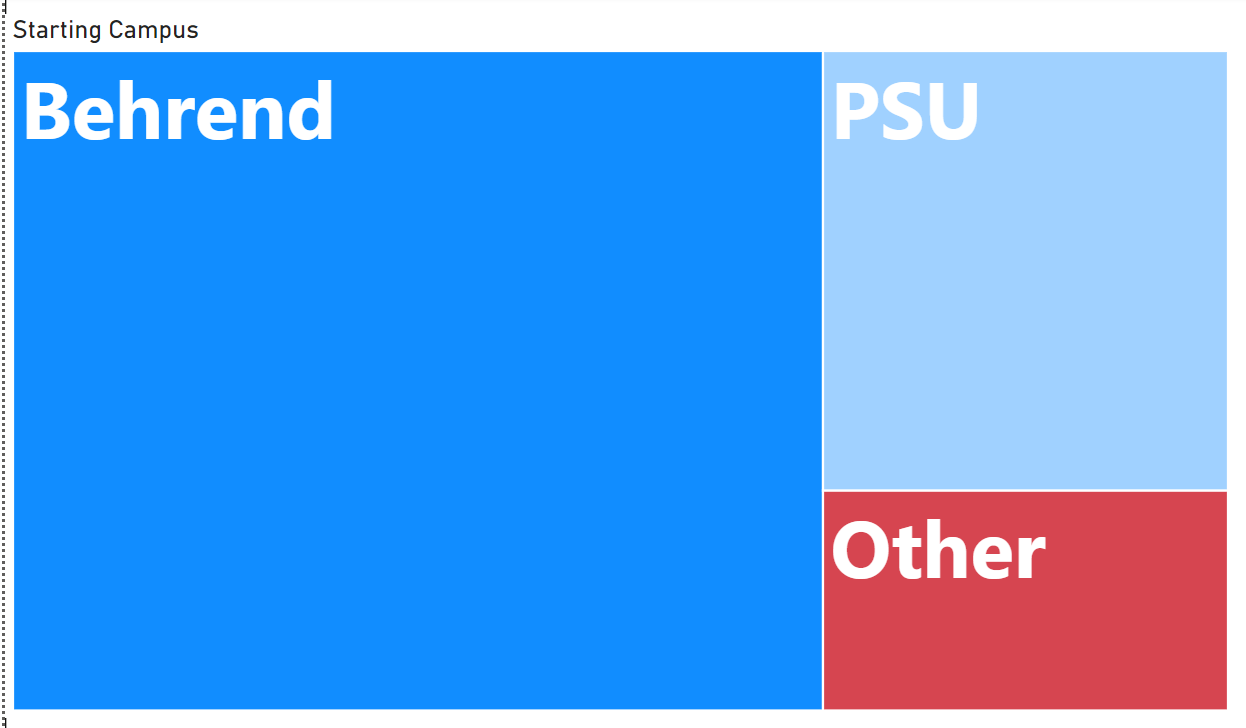
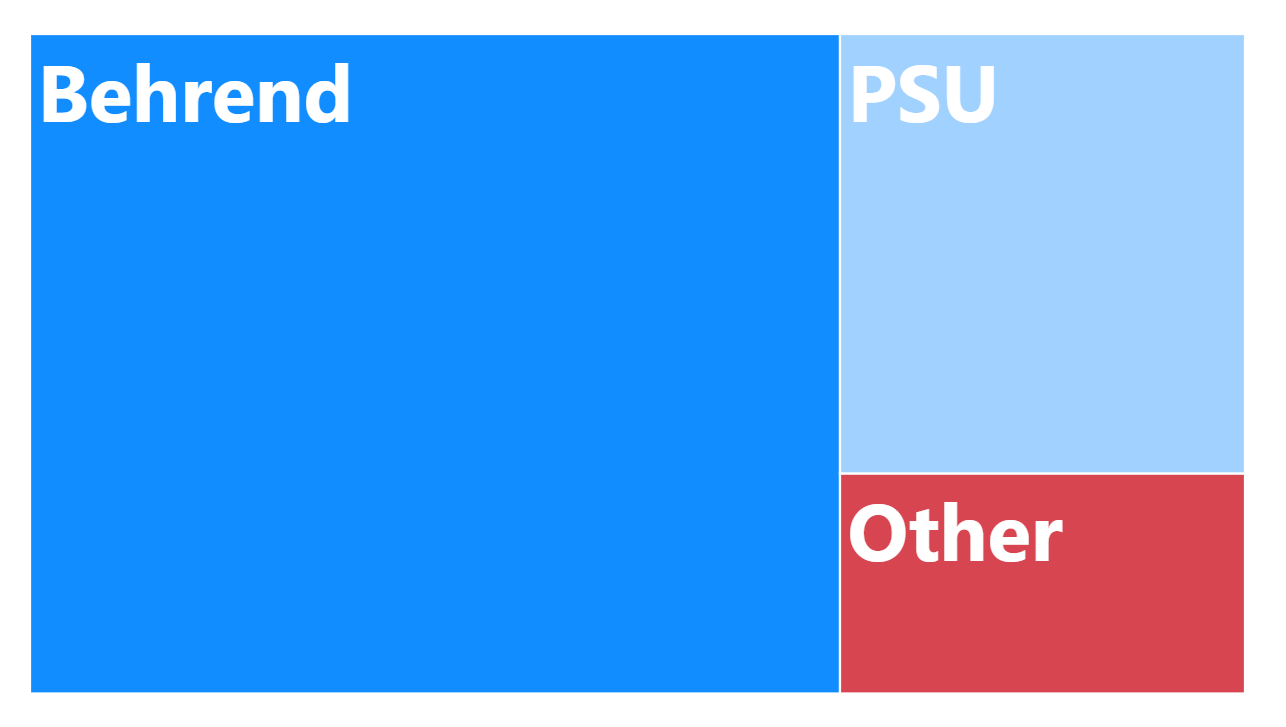
finished Student About page

Changed region(s): [[0.0, 0.0303, 1.0, 0.9986]]

diff --git a/docs/about-students.html b/docs/about-students.html
@@ -1,9 +1,7 @@
 <!DOCTYPE html>
 <html xmlns="http://www.w3.org/1999/xhtml">
     <head>
-
         <title>PSB DIGIT About Students</title>
-
         <meta charset="UTF-8" />
         <meta name="author" content="Jessica Salemme" />
         <meta name="viewport" content="width=device-width, initial-scale=1.0" />
@@ -46,61 +44,44 @@
                     class="tabbingBtn"> Site </a>
 
             </div>
-            
-            <div class="dataresults"> </div>
             <div class="about_forms">
-                <div class="dataintro">Our Student Data <br />We surveyed some Digit students about
-                    their experience to learn more about Digit culture. All graphs were created with <a href="https://www.microsoft.com/en-us/power-platform/products/power-bi">Microsoft Power BI</a>. Here are the results:</div>
+                <h2>Our Student Data</h2>
+                <p>We surveyed some DIGIT students about
+                    their experience to learn more about DIGIT culture. All graphs were created with <a href="https://www.microsoft.com/en-us/power-platform/products/power-bi">Microsoft Power BI</a>. Here are the results:</p>
             </div>
-
             <div class="aboutGalleryFlex">
 
                 <figure>
-                    <img class="datacaption" src="images/graphs/spec.png"
+                    Favorite Module
+                    <img src="images/graphs/spec.png"
                         alt="graph displaying specialization data" />
-                    <figcaption class="aboutImageCaption"> This funnel graph signifies which
-                        spealizations are most popular. According to this data,sound and motion is
-                        the most popular specialization. </figcaption>
+                    <figcaption> This funnel graph signifies which Modules are most popular. According to this data, sound and motion is the most popular specialization. </figcaption>
                 </figure>
                 <figure>
-                    <img class="datacaption2" src="images/graphs/campus.png"
+                    Starting Campus
+                    <img src="images/graphs/campus.png"
                         alt="graph displaying starting campus data" />
-                    <figcaption class="aboutImageCaption"> This tree map analyzes the starting
-                        campus of Digit students. The data shows that most students start at Behrend
-                        or another PSU branch campus. </figcaption>
+                    <figcaption> This tree map analyzes the starting campus of DIGIT students. The data shows that most students start at Behrend or another PSU branch campus. </figcaption>
                 </figure>
                 <figure>
-                    <img class="datacaption3" src="images/graphs/minors.png"
+                    DIGIT Minors
+                    <img src="images/graphs/minors.png"
                         alt="graph displaying data about minors" />
-                    <figcaption class="aboutImageCaption">Every student surveyed so far is earning a
-                        minor. Art related minors(e.g. media production,music technology) are the
-                        most popular. </figcaption>
-                </figure>
-            </div>
-
-            <div class="datagroup2">
-                <figure>
-                    <img src="images/graphs/major.png" class="datacaption2"
-                        alt="graph displaying data about starting major" />
-                    <figcaption class="aboutImageCaption">The donut graph represents the percentage
-                        of students that started as a Digit student.<br/>Most students did not start as a Digit<br/> student. </figcaption>
+                    <figcaption>Every student surveyed so far is earning a minor. Art-related minors (e.g. Media Production, Music Technology) are the most popular.</figcaption>
                 </figure>
                 <figure>
-                    <img src="images/graphs/careers.png" class="datacaption4"
-                        alt="graph displaying graph about careers" />
-                    <figcaption class="aboutImageCaption">This tree map shows what career goals our Digit students have. Most students want to work in digital art and game development.  </figcaption>
+                    Percent of Students Who Started in DIGIT
+                    <img src="images/graphs/major.png"
+                         alt="graph displaying data about starting major" />
+                    <figcaption>The donut graph represents the percentage of students that started as a DIGIT student. Most students did not start as a DIGIT student. </figcaption>
                 </figure>
+<!--                <figure>-->
+<!--                    <img src="images/graphs/careers.png"-->
+<!--                         alt="graph displaying graph about careers" />-->
+<!--                    <figcaption class="aboutImageCaption">This tree map shows what career goals our Digit students have. Most students want to work in digital art and game development.  </figcaption>-->
+<!--                </figure>-->
             </div>
-
-
-
-            <div class="aboutSubHeading"> What do DIGIT Students say? </div>
-
-
-            <div class="aboutSubHeading"> Student Portfolios </div>
-
             <h2>Student Portfolios</h2>
-
             <div class="about_forms">
                 <p>Here is a directory of links to many of our students’ digital portfolios.</p>
             </div>

diff --git a/docs/digit_style.css b/docs/digit_style.css
@@ -478,32 +478,6 @@ display:flex;
 width:400px
 
 }
-img.datacaption2{
-display:flex;
-width:350px;
-
-}
-img.datacaption3{
-    display:flex;
-width:300px
-}
-img.datacaption4{
-display:flex;
-width:350px; 
-right: 350px;
-text-align:right
-}
-figcaption.aboutImageCaption{
-color:black    
-}
-div.datagroup2{
-display:flex;
-border-style:solid;
-border-color:black;
-background:lavender;
-border-width:thick;
-text-align:left
-}
 div.graphs{
 display:flex;
 border-style:solid;
@@ -521,9 +495,7 @@ border-width:thick
     margin-top: -.15rem;
 }
 
-div.dataintro{
-text-align:center
-}
+
 p.dataintro{
     text-align:center
 }
@@ -1037,11 +1009,19 @@ p.dataintro{
     margin: auto;
     justify-content: space-between;
     /*adjust this width to increase image size*/
-    width: 70%;
-    gap: 100px;
+    flex-wrap: wrap;
+    gap: 10px;
+}
+.aboutGalleryFlex img{
+    max-width: 100%;
+    margin: .5rem 0;
 }
 .aboutGalleryFlex figure{
-    margin: 0;
+    max-width: 48%;
+    margin: 0 0 3rem 0;
+    display: flex;
+    flex-direction: column;
+
 }
 .portfolioList ul{
     column-count: 3;
@@ -1056,10 +1036,6 @@ p.dataintro{
 .portfolioList li {
     list-style: none;
     margin: 0 0 .5rem;
-}
-.aboutImageCaption {
-    text-align: center;
-    padding-top: 10px;
 }
 /* ABOUT PROFESSORS SECTION*/
 .profContainer {
@@ -1166,7 +1142,8 @@ iframe.newtfire {
         margin: 0 0 0.7rem;
     }
     p,
-    li {
+    li,
+    figure{
         font-size: 0.85rem;
     }
     h1 span {
@@ -1220,7 +1197,8 @@ iframe.newtfire {
         margin: 0 0 0.4rem;
     }
     p,
-    li {
+    li,
+    figure {
         font-size: 0.6rem;
     }
     h1 span {
@@ -1323,6 +1301,10 @@ iframe.newtfire {
         font-size: .8rem;
         padding: 15px 20px;
     }
+}
+@media screen and (max-width : 700px){
+    .aboutGalleryFlex figure {
+        max-width: 90%;}
 }
 @media screen and (min-width : 1000px) {
     #homeBackground {
@@ -1450,7 +1432,6 @@ iframe.newtfire {
         display: none;
     }
 }
-
 @media screen and (max-width: 1200px){
     .portfolioList ul{
         column-count: 2;
@@ -1462,7 +1443,10 @@ iframe.newtfire {
     }
     .aboutGalleryFlex{
         flex-direction: column;
+        align-items: center;
     }
+
+
 }
 @media screen and (max-width: 350px){
     .tabbingBtn{
